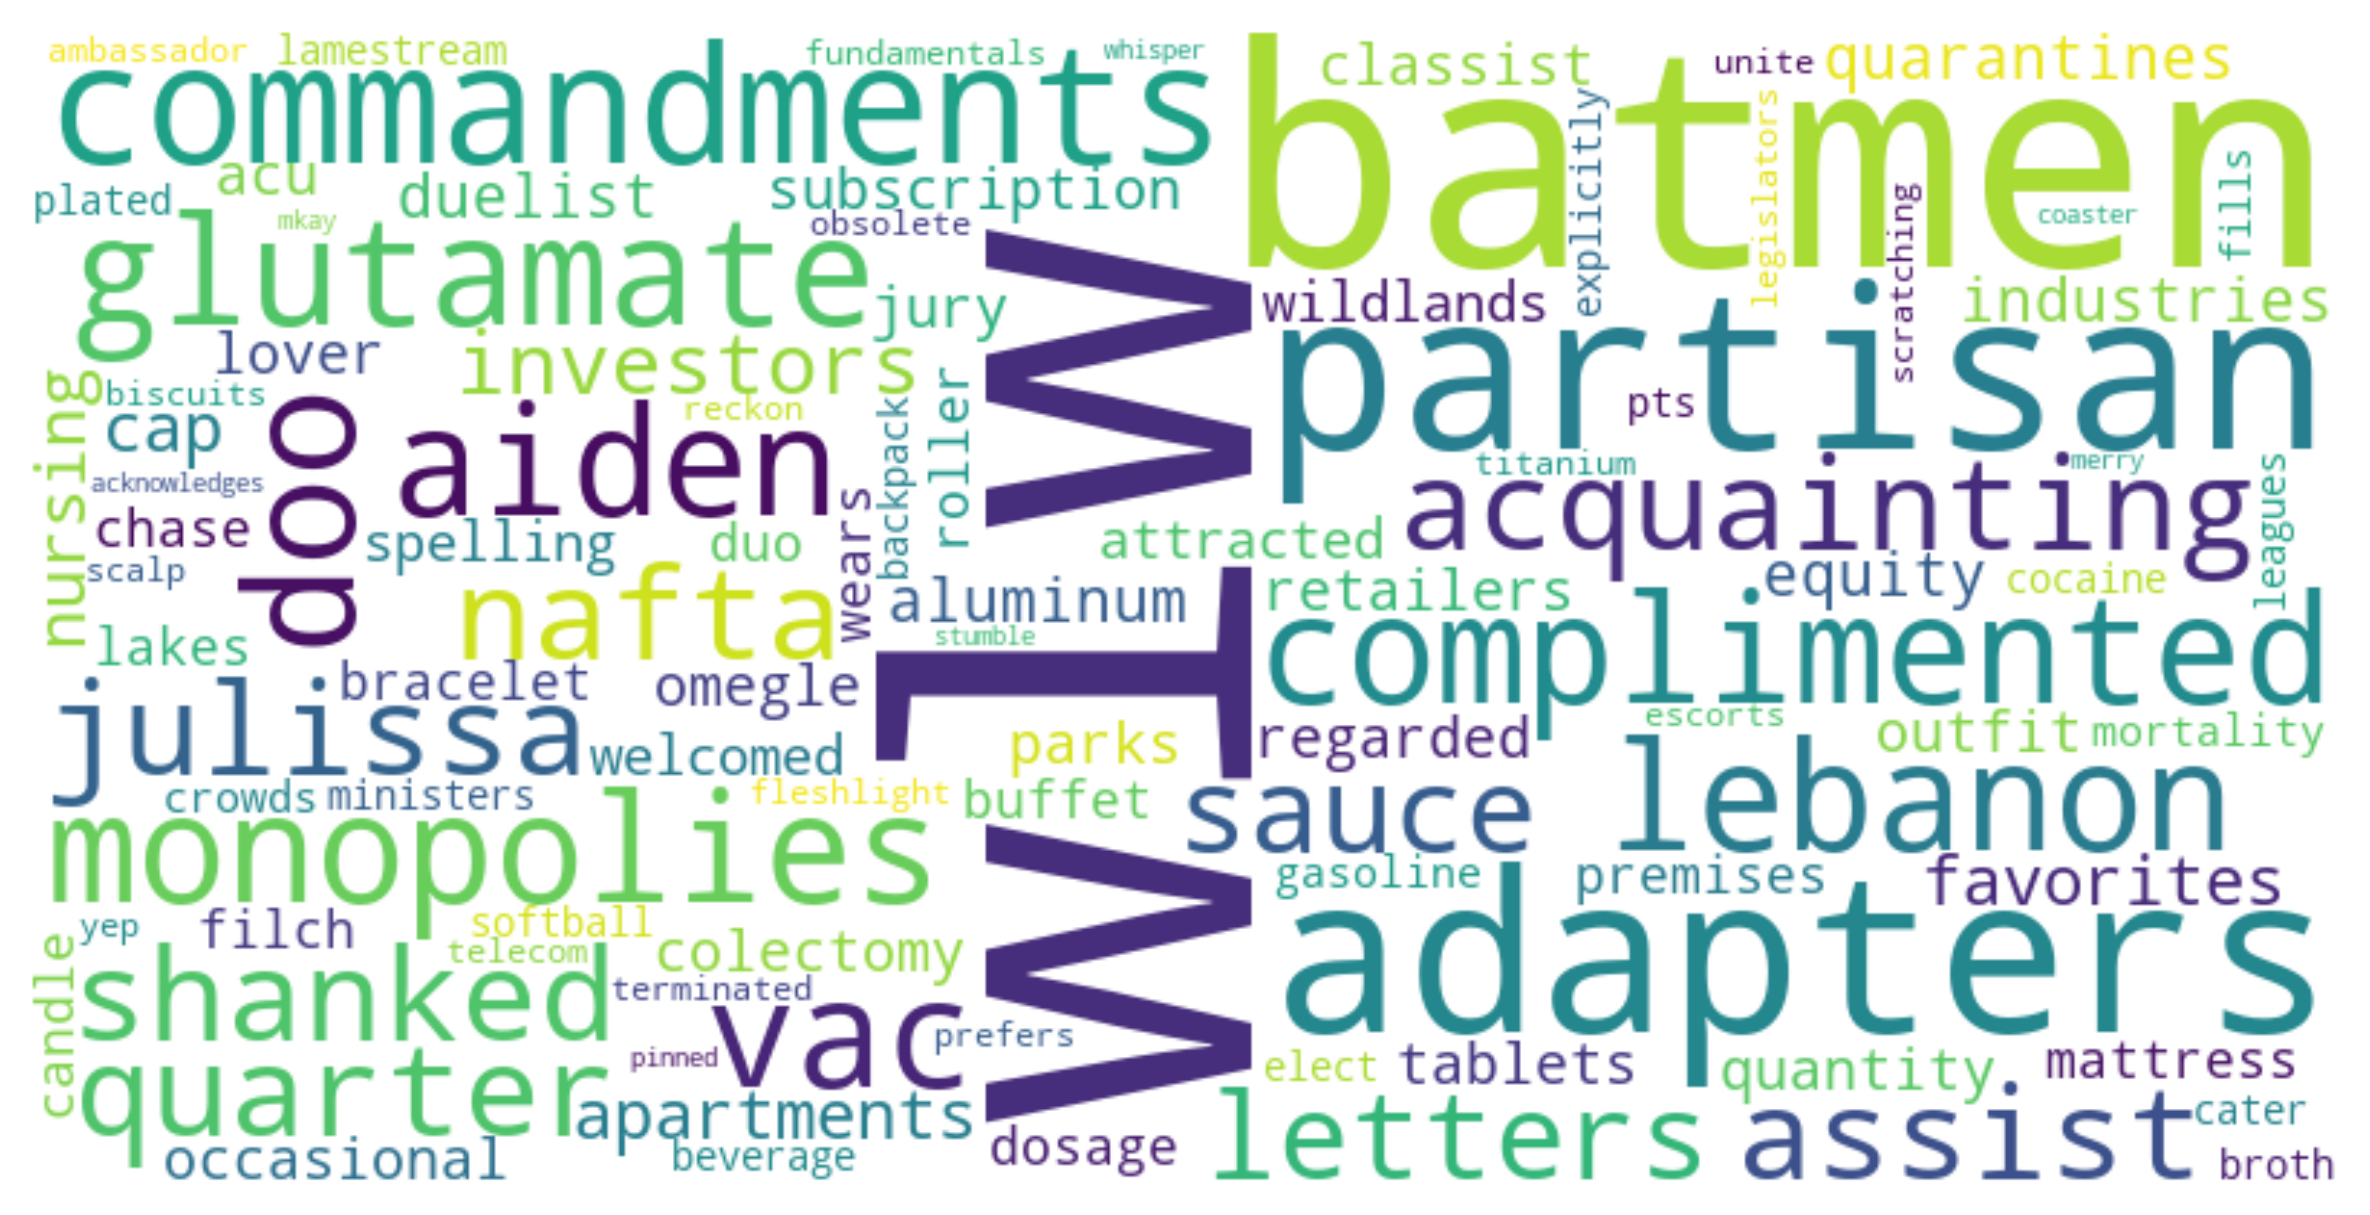
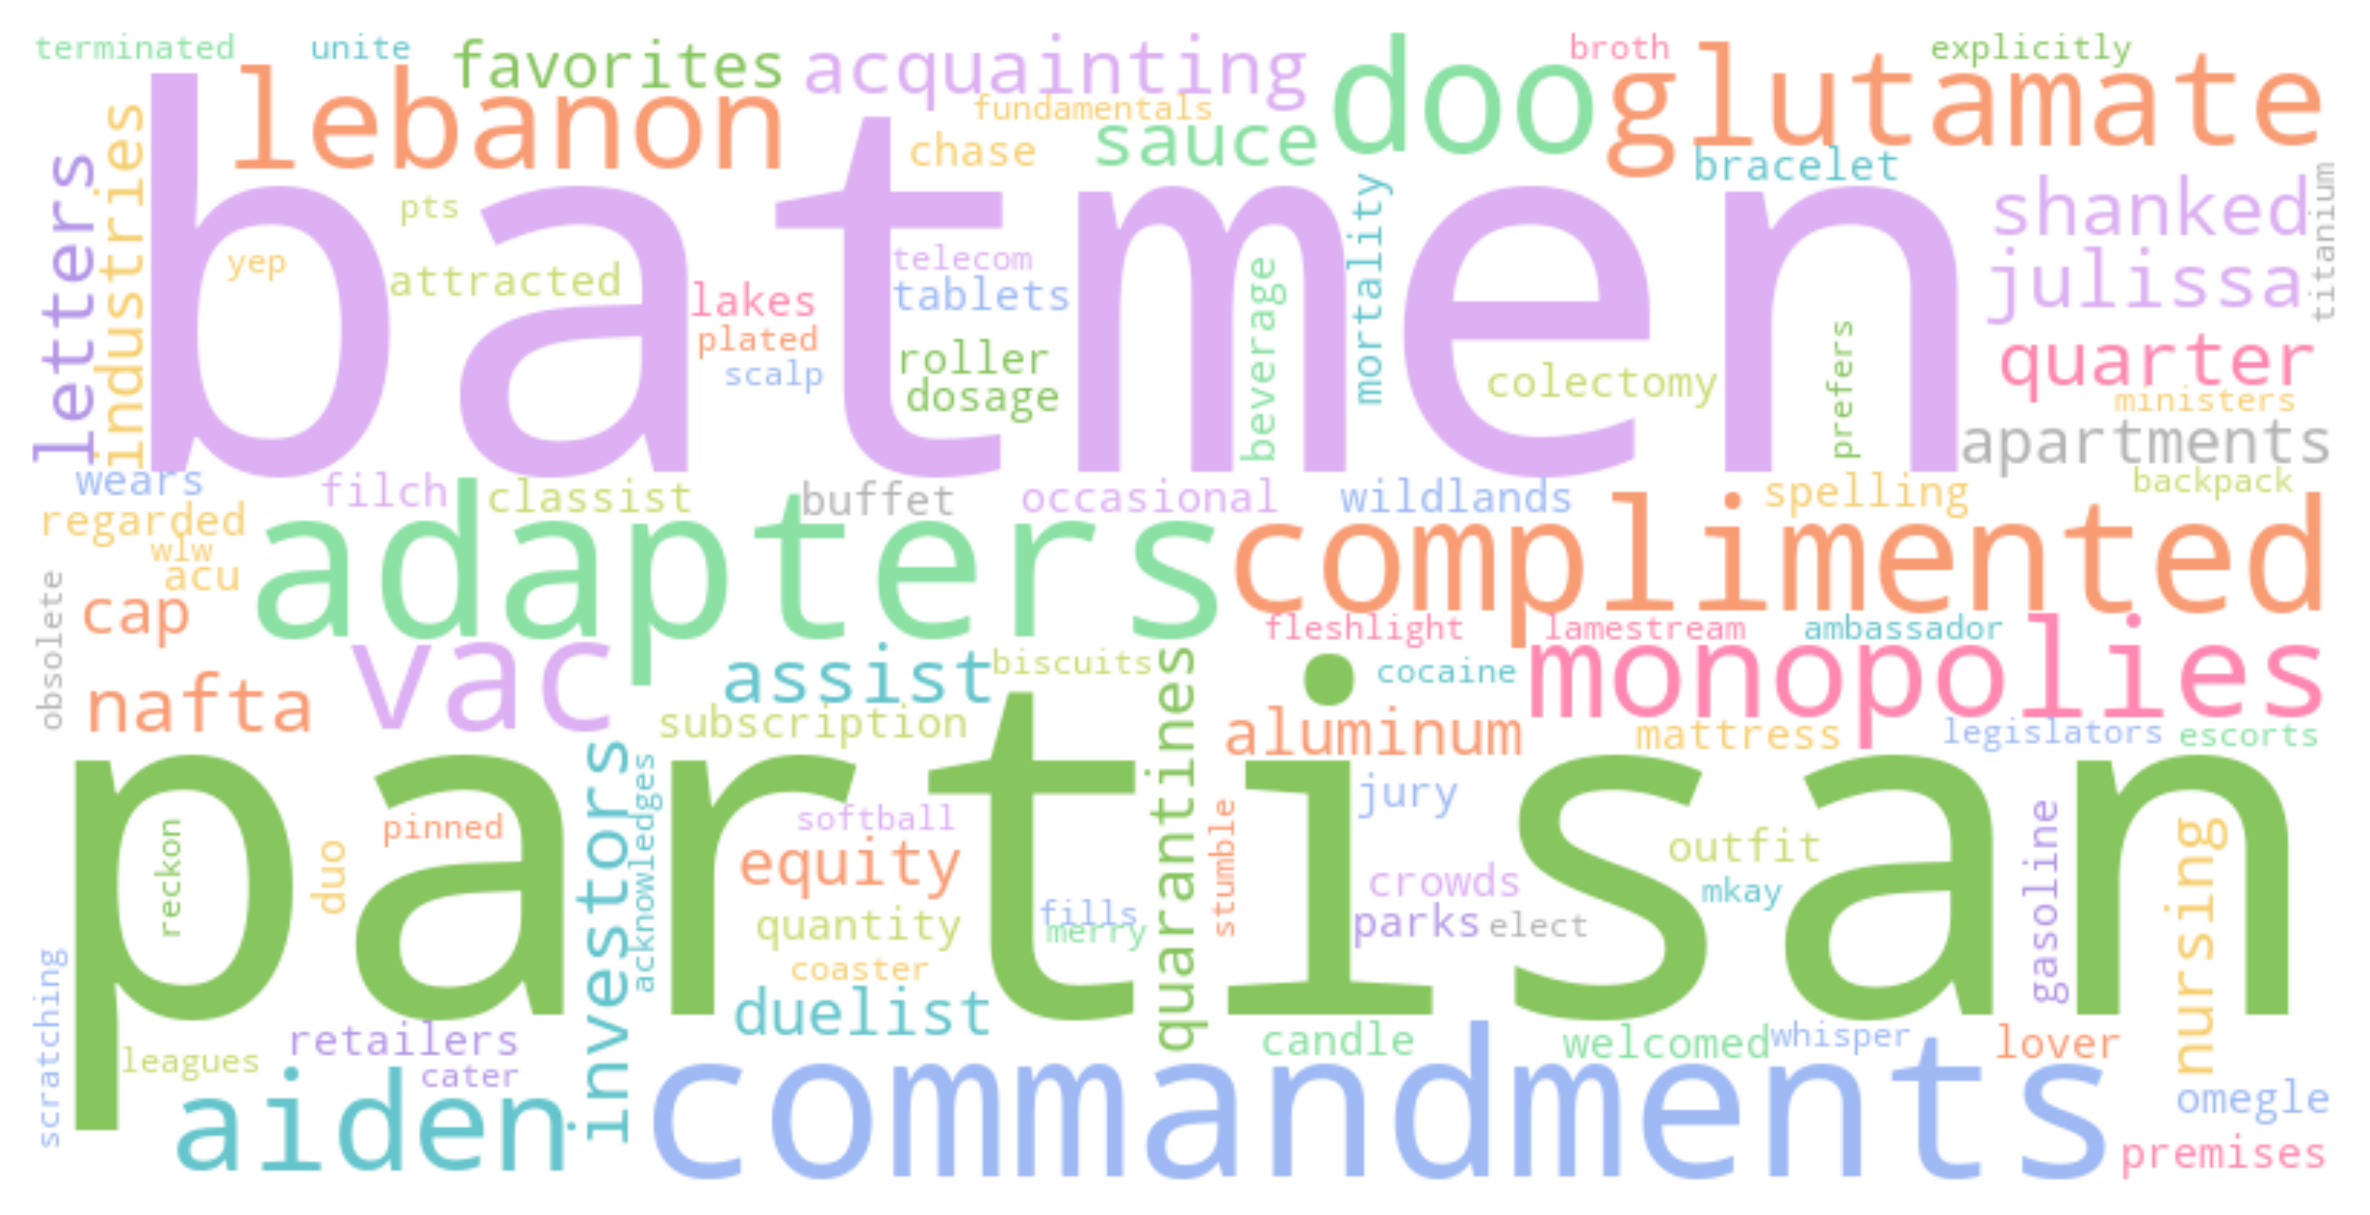
new color

diff --git a/postlevel.md b/postlevel.md
@@ -531,195 +531,4 @@ For understanding the overall tendance, maybe we should look at what these words
 Now, let's look at the semantical part, how words are shaped, what they represent, etc. 
 
 
-For each post, we have 86 different semantic features! It's a lot, but let's try to explain a bit what they represent. 
-
-- **Textual properties**: The first 18 features represent how the post is constructed. These are mostly surface statistics about the string, not really the “meaning”.   
-We have properties of length (number of characters, of words, of sentences,..) or ratios (fraction of whitespaces, digits, uppercase chars,..) and features representing the variety (number of unique words, fraction of stopwords, number of long words,..).
-- **VADER computed features**: The 3 next features represent sentiment calculated by VADER library. It describes how much of the text is perceived as positive / neutral / negative.  
-- **LIWC computed features**: These 65 features correspond to different themes (adverbs, emotions, social, etc.) where words allow to compute a score for each post, on each oh these themes. LIWC use a dictionnary to compute these scores.
-
-We can visualize these features in a different way: 
-<iframe
-  src="{{ '/assets/plots/3_semantic_features_treemap.html' | relative_url }}"
-  width="100%"
-  height="600"
-  style="border:none;">
-</iframe>
-
-
-As you can see, it's a LOT !!  
-As you remember, we're interested in finding the features that are the most relevant to predict a burst.  
-Here, it will make sense to try to find, among these features, the one that are more explainative, instead of inventing or computing new features, right ? 
-
-## 3. Feature selection
-After the preprocessing of these features, our goal is to select the most informative ones. We explore several simple strategies:  
-- **Manual pruning** (human judgement): We look at the correlation matrix to spot features that tell almost the same story. When several features are very similar, we keep one and remove the redundant ones, within each subgroup precedently cited. 
-- **Univariate selection** (one feature at a time): For each feature, we compare its typical values in burst posts vs non-burst posts. Features showing a strong difference between the two groups are good candidates.
-- **Offline selection** (using the label *burst* directly, but without training a model): We rank features by how strongly they relate to the target *burst*, for example:
-    - by their correlation with the *burst* label
-    - by mutual information, which can capture more complex relationships (not only linear ones).
-- **Online forward selection** (step-by-step with a model): We start with no features, then add them one by one, each time keeping the feature that brings the biggest improvement in prediction. We stop when adding more features no longer helps much.
-
-
-For example, for the first idea, we are interested in pruning this *big* correlation matrix. 
-
-We try to remove obvious duplicates while preserving interpretable representatives across feature families. In parallel, we considered which features are most relevant to our research question and predictive objective, and which ones can be removed because they are either redundant or weakly connected to our task.
-
-<iframe src="{{ '/assets/plots/3_corr_before.html' | relative_url }}" width="100%" height="700" style="border:none;"> </iframe> 
-
-
-We try to remove obvious duplicates while preserving interpretable representatives across feature families. In parallel, we considered which features are most relevant to our research question and predictive objective, and which ones can be removed because they are either redundant or weakly connected to our task. 
-
-
-<iframe src="{{ '/assets/plots/3_corr_after.html' | relative_url }}" width="100%" height="700" style="border:none;"> </iframe>
-
-Pruning clearly breaks up the big correlation blocks, especially those driven by textual properties, and keep a lower number of relevant LIWC thematics features.
-So the remaining matrix is less redundant and easier to read. That said, 47 variables is still a lot for a sparse signal like “burst,” and some clusters remain (e.g., LIWC families with overlapping constructs).
-
-
-
-After applying all of these different ideas, we can look at the top 20 most informartive features, according to each ranking.
-
-Each bar represents how strongly a feature is associated with the burst label according to a given scoring criterion.
-Using the dropdown menu, we can switch between methods and observe that some features often appear among the most relevant, while others are specific to a single criterion.
-
-This comparison helps us understand which semantic features are repeatedly highlighted as important, and which ones depend on the selection strategy used.
-
-<iframe
-  src="{{ '/assets/plots/3_feature_importance_dropdown.html' | relative_url }}"
-  width="100%"
-  height="650"
-  style="border:none;">
-</iframe>
-
-We can also visualize the features kept by each ranking per group, and some different unions of features. 
-
-For instance, if we take:
-- the top-20 features from the univariate ranking, and
-- the top-20 features from forward selection,  
-their union gives 33 features (because 7 features are shared, so it’s 20 + 20 − 7).
-
-<iframe
-  src="{{ '/assets/plots/3_feature_selection_treemap_dropdown.html' | relative_url }}"
-  width="100%"
-  height="650"
-  style="border:none;">
-</iframe>
-
-
-A couple of things stand out:
-- Mutual information picks only LIWC features in its top-20, meaning it mostly finds signal in the types of words used (themes/categories), rather than in basic text length or sentiment.
-- The univariate and correlation rankings end up being almost identical here, which suggests that the features that differ the most between burst vs non-burst are also the ones most directly correlated with the burst label.
-- The forward-selected features appear more uniformly distributed about the different subgroups: some are LIWC, some are text properties, without being correlated, and we still have 1 VADER feature to represent the sentiment perceived by the post.
-- The manually-selected and the unions of features give a higher number of features. We will try to understand if it's necessary to keep all of them of if we can restrict us to a smaller subset.
-
-
-## 4. Model Analyses
-Now that we have several “shortlists” of features, the next question is simple:  
-
-**How many features do we really need to predict a burst?**   
-We’d like to keep the feature set as small as possible, while staying as close as possible to the performance of the full 86-feature model!
-
-
-Here are all the subsets we will test:  
-
-| Dataset | Number of features |
-|---|---:|
-| Univariate selection (top 20) | 20 |
-| Correlation-based selection (top 20) | 20 |
-| Mutual information selection (top 20) | 20 |
-| Forward selection (top 20) | 20 |
-| Manual selection after correlation-matrix pruning | 47 |
-| Univariate + forward union | 33 |
-| Univariate + manual union | 59 |
-| Forward + manual union | 56 |
-| Union of all methods | 69 |
-| Full feature set | 86 |
-
-
-
-To avoid conclusions that depend on a single algorithm, we test several standard classifiers:
-
-- Logistic Regression: the “basic” model. Fast, simple, easy to read, but it can miss messy patterns.
-- Random Forest: a bunch of decision trees voting together. One tree can be dumb, but 500 trees together are usually solid. 
-- Histogram Gradient Boosting: trees too, but built one after another, each new tree fixes the previous mistakes.   
-- XGBoost: boosted trees on steroids. Same “fix mistakes step by step” idea, but super optimized and often performs best if tuned.  
-
-We're using PR-AUC and ROC-AUC to evaluate the performances. 
-- **ROC-AUC**: “how well the model ranks positives above negatives” overall. A 0.5 performance is equivalent to a model classiying burst randomly, and 1.0 would be perfect.
-- **PR-AUC**: “how clean your positives are when positives are rare” (precision vs recall). Usually the more honest metric when burst is rare (our case, based on a quite imbalanced dataset).
-
-
-The results are shown in the plot below.   
-The **last column** is the reference: the model trained on **all 86 features**.  
-The **first four columns** are the four different **top-20** selections.  
-Then we have the **manual-pruned** set (47 features), and finally the different **unions**.
-
-
-
-<iframe
-  src="{{ '/assets/plots/3_model_performance_by_subset.html' | relative_url }}"
-  width="100%"
-  height="720"
-  style="border:none;">
-</iframe>
-
-Across all subsets, **XGBoost is consistently the strongest model**.  
-
-On the feature selection side:  
-- **Mutual information** performs the worst here (both ROC-AUC and PR-AUC).  
-- **Univariate** and **correlation-based** selection give almost the same results, which makes sense, because they tend to pick very similar (and often redundant) features.
-- The most interesting result is the **forward-selected top-20** subset: it gives a clear boost in PR-AUC, and gets very close to the performance of much larger feature sets (unions, and even the full 86-feature set).
-
-The **forward_top20** subset achieves performance that is almost as good as using all 86 features.    
-So in practice, we can reduce the feature space by a factor of ~4, while keeping nearly the same predictive power.  
-
-In other words: **these 20 features seem to capture most of the signal needed to detect bursts!**. 
-
-**But what do these 20 features actually capture?**  
-
-To better understand *why* the forward-selected top-20 features work so well, we can try to understand what each feature represents in practice, and how it may relate to a Reddit post becoming widely discussed or shared. 
-
-
-
-| Feature | What it measures | Why it may contribute to a burst |
-|---|---|---|
-| Fraction of digits | Proportion of numbers in the text | Numbers often signal evidence, statistics, dates, prices, or scores. These posts are easy to quote, verify, or challenge, which fuels discussion. |
-| Fraction of uppercase characters | Use of capital letters | Capitals add emphasis or urgency (sometimes perceived as shouting), often seen in provocative or emotionally charged posts. |
-| Fraction of white spaces | Overall spacing and structure | Captures writing style: compact, punchy posts versus long explanations or list-like formats. Structure can affect readability and shareability. |
-| Number of long words (≥ 6 chars) | Lexical complexity | Distinguishes more formal, technical explanations from simple rants or memes. Both styles can burst, but in different communities. |
-| VADER compound | Overall sentiment polarity | Strongly positive or negative tone often signals enthusiasm or controversy, both of which increase engagement and cross-subreddit attention. |
-| LIWC_Pronoun | Overall use of pronouns | Indicates how personal or social the post is. Posts focused on people rather than abstract topics tend to attract more reactions. |
-| LIWC_I | First-person singular (“I”) | Personal stories, experiences, or confessions are highly relatable and often spark discussion. |
-| LIWC_We | First-person plural (“we”) | Signals group identity or shared experience, which can mobilize communities and create “us vs them” dynamics. |
-| LIWC_You | Direct address (“you”) | Creates confrontation or direct engagement with the reader, often increasing emotional response and debate. |
-| LIWC_Past | References to the past | Mentions of past events, incidents, or decisions can resurface old controversies and reignite discussions. |
-| LIWC_Adverbs | Use of adverbs | Adds intensity, subjectivity, or emphasis (e.g., “clearly”, “extremely”), reinforcing persuasive or emotional narratives. |
-| LIWC_Quant | Quantifiers (“all”, “many”, “none”) | Strong generalizations make claims easier to argue for or against, increasing comment activity. |
-| LIWC_Social | Social-related words | Language about people, groups, or relationships provides material for social judgment and collective discussion. |
-| LIWC_Insight | Thinking and reasoning words | Indicates interpretation or analysis (“think”, “realize”), often used in explanatory or opinionated posts that invite debate. |
-| LIWC_Cause | Causal language | Suggests explanations or blame (“because”, “therefore”), which encourages counter-arguments and discussion. |
-| LIWC_Motion | Action-related words | Helps build narratives with events and actions, making posts more story-like and engaging. |
-| LIWC_Space | Spatial references | Anchors stories in places or contexts, which increases concreteness and memorability. |
-| LIWC_Work | Work-related vocabulary | Topics related to jobs, careers, or productivity are broadly relatable and often spark comparison and debate. |
-| LIWC_Leisure | Leisure and hobbies | Shared interests (games, sports, entertainment) spread easily across communities. |
-| LIWC_Home | Home and everyday life | Familiar, everyday contexts increase identification and cross-community resonance. |
-
-
-Overall, these features suggest that bursting posts are not just about *what* is said, but *how* it is said:  
-emotion, personal stance, social framing, and concrete storytelling all play a key role.
-
-
-### Takeaways we keep to build our final recipe ! 
-
-- A REMPLIR QUAND PAGE TERMINEE
-
-These features are retained for downstream burst prediction models.
-
-
-<hr>
-
-<div style="display:flex;justify-content:space-between;gap:12px;flex-wrap:wrap;margin-top:20px">
-  <a class="btn btn-default" href="/userlevel/">← Previous: User level</a>
-  <a class="btn btn-primary" href="/finalrecipe/">Next: Final recipe →</a>
-</div>
+For each post,
